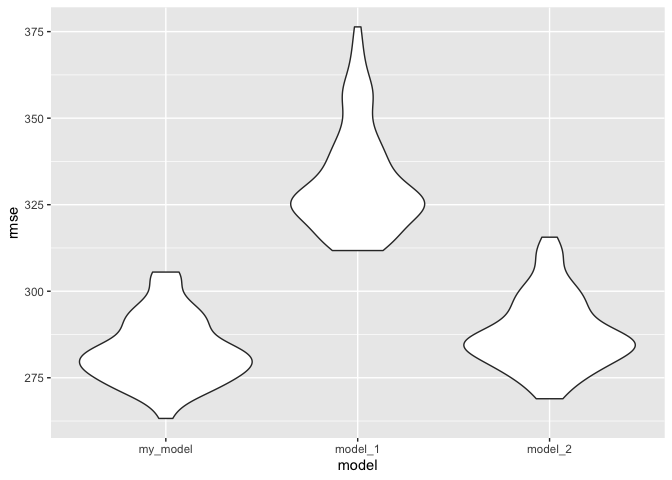
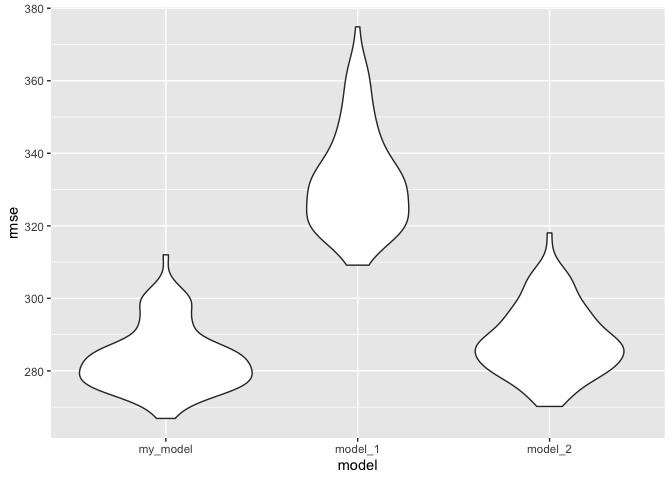
Final Homework6

diff --git a/p8105_hw6_xc2473.md b/p8105_hw6_xc2473.md
@@ -87,9 +87,9 @@ ggplot(aes(x = pred, y = resid)) +
 
 Since I think baby’s head circumference at birth, baby’s length at
 birth, gestational age in weeks, and mother’s weight gain during
-pregnancy are important factors for baby’s birth weight. Therefore, my
-model statement is “bwt = bhead \* beta1 + blength \* beta2 + gaweeks \*
-beta3 + wtgain \* beta4”.
+pregnancy are important factors for baby’s birth weight hypothetically.
+Therefore, my model statement is “bwt = bhead \* beta1 + blength \*
+beta2 + gaweeks \* beta3 + wtgain \* beta4”.
 
 As we can see from the plot of residuals against fittted values, the
 spread is not constant.
@@ -124,9 +124,12 @@ birthweight %>%
 
 ![](p8105_hw6_xc2473_files/figure-gfm/unnamed-chunk-2-1.png)<!-- -->
 
-From the plot we can see that, my model has less prediction error than
-other two models. However, the high root mean squared errors suggest
-that none of the three models work very well.
+From the plot we can see that, my model has much less prediction error
+than the model involving length at birth and gestational age as
+predictors and has slightly lower prediction error than the interaction
+model (model 2), Therefore, my model may be the most reasonable model
+among the three models. However, the high values of root mean squared
+errors suggest that none of the three models work very well.
 
 **Question 2**
 
@@ -198,7 +201,7 @@ bootstrap_results %>%
 
 We can see that the distribution of r squared is a little right-skewed,
 but it is very close to a normal distribution. The 95% confidence
-interval for r squared is 0.894489, 0.9273416.
+interval for r squared is (0.8943164, 0.9275587.)
 
 ``` r
 bootstrap_results %>% 
@@ -208,7 +211,8 @@ bootstrap_results %>%
        x = "estimate")
 ```
 
-![](p8105_hw6_xc2473_files/figure-gfm/unnamed-chunk-4-1.png)<!-- --> We
-can see that the distribution of log(beta0 \* beta1“) is close to a
+![](p8105_hw6_xc2473_files/figure-gfm/unnamed-chunk-4-1.png)<!-- -->
+
+We can see that the distribution of log(beta0 \* beta1“) is close to a
 normal distribution. The 95% confidence interval for estimates of
-log(beta0 \* beta1”) is 1.964545, 2.0597169
+log(beta0 \* beta1”) is (1.9650965, 2.0598087).
